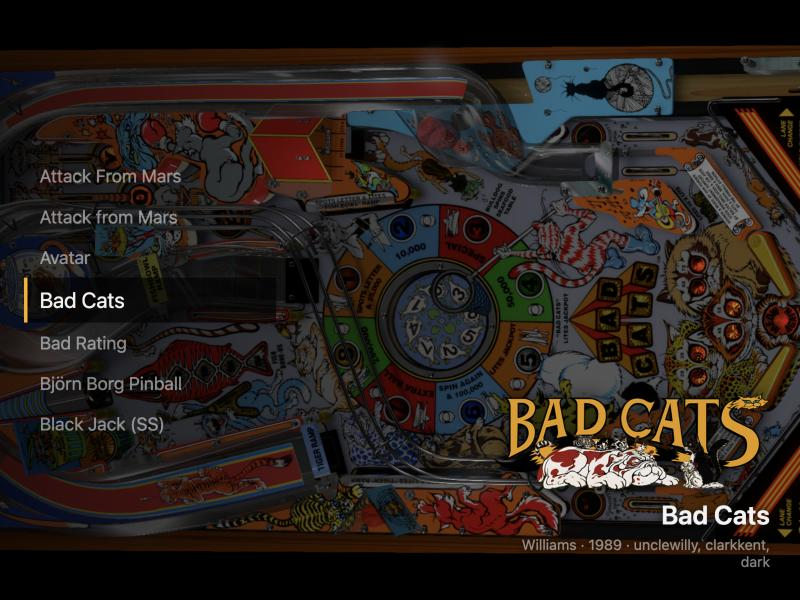
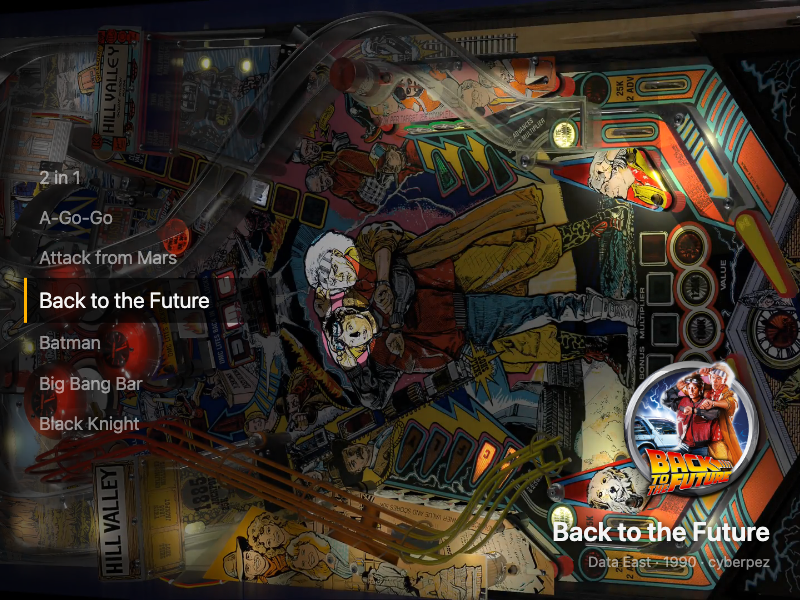
New README, 3.0 release notes and previews
- change_log rewritten as the 3.0 release notes
- README rewritten for people installing the theme, with the settings table and a short Make your own
- preview.png and preview-cabinet.png reshot from the showcase library

diff --git a/README.md b/README.md
@@ -1,127 +1,28 @@
 # Template
 
-A small starting point for a VPinFE 3.0 theme. It draws a list of tables on the left, the
-selected table's name, wheel and details on the right, and the table's playfield art behind
-both. Everything else is core's.
+A small starting point for a VPinFE 3.0 theme.  It draws a list of tables on the left, the selected table's name, wheel and details on the right, and the table's playfield art behind both.  Everything else is VPinFE's own.
 
-![Template](preview.png)
+![Template on a desktop](preview.png)
 
-Requires VPinFE 3.0 or later (`min_vpinfe` in `manifest.json`).
+On a tall cabinet screen the list sits at the bottom.
+
+![Template on a cabinet](preview-cabinet.png)
+
+The art behind the page is the table's video or image, whichever Playfield Media Priority in VPinFE's settings asks for.
+
+## Install
+
+Open Themes in the Console, find Template, and press Install.  Then press Make Active and restart VPinFE.  It needs VPinFE 3.0 or later.
+
+## Settings
+
+These are on the Themes page in the Console, under Template's settings.
+
+| Setting | What it does |
+| --- | --- |
+| Rows | How many tables the list shows at once, from 3 to 13 in steps of 2.  7 by default. |
+| Show Details | Shows the manufacturer, year and authors under the table's name.  On by default. |
 
 ## Make your own
 
-1. Copy this folder and rename it `theme-<yourname>`.
-2. Change `name`, `version`, `author` and `description` in `manifest.json`, and replace
-   `preview.png` with a screenshot of your theme.
-3. Edit `index_playfield.html`, `style.css` and `theme.js`.
-
-The theme reference is [docs/theme.md](https://github.com/vpinfe/vpinfe/blob/master/docs/theme.md)
-in VPinFE.
-
-## What is here
-
-```
-manifest.json         name, version, author, min_vpinfe and the windows the theme draws
-options.json          the options a person can change, with their defaults
-index_playfield.html  the playfield page
-style.css             the look
-theme.js              the behavior
-locales/en.json       the theme's own words; add <language>.json to translate them
-preview.png           shown in the theme list
-```
-
-## The two JSON files
-
-JSON cannot carry comments, so what each field does is here.
-
-`manifest.json`
-
-| Field | What it does |
-| --- | --- |
-| `name`, `version`, `author`, `description` | Shown in the theme list. `version` is the theme's own release number |
-| `preview_image` | The screenshot shown in the theme list |
-| `type` | `both` adapts to a desktop screen or a cabinet; `desktop` and `cab` are the other two |
-| `min_vpinfe` | The oldest VPinFE that can run the theme. `3.0` is what gets the core parts below |
-| `windows` | The pages the theme draws. Template draws `playfield` only, so core's backglass and score view pages are used |
-| `change_log` | A string, shown as "What's new" to someone installing the theme or updating it |
-
-`options.json` declares what a person can change under the theme's settings. Each entry has
-a `key`, a `name` and `description` the person reads, a `type` and a `default`. A `number`
-also takes `min`, `max` and `step`. The types are `text`, `textarea`, `number`, `boolean`,
-`select` and `json`. The theme reads the value from `vpin.themeConfig` under
-the entry's `key`. Template declares two:
-
-| Key | Type | What it does |
-| --- | --- | --- |
-| `rows` | number | How many tables the list shows at once |
-| `showDetails` | boolean | Shows the manufacturer, year and authors under the name |
-
-Every field of each type is in the theme reference, under Configuration Schema.
-
-## The four parts of theme.js
-
-`theme.js` has four parts, in this order, each commented:
-
-1. **Options** - read what `options.json` declared.
-2. **The list** - draw the rows around the selection.
-3. **The selection** - draw the selected table.
-4. **Messages** - hand every message to core, then redraw when the selection moves or the
-   list changes.
-
-A step slides the rows and a page jump cuts. That is the only motion the theme decides.
-
-## Translating
-
-A word a person reads goes through `vpin.t(key, english)`, and the theme's own words live in
-`locales/`. Template has one, the label on the list, in `locales/en.json`:
-
-```json
-{ "tables": "Tables" }
-```
-
-`vpin.t("theme.tables", "Tables")` reads it. To translate Template, add a `locales/de.json`
-beside it with the same keys. A language or a key the theme does not have falls back to
-`en.json`, then to the English written in the call. Core's own words, such as
-`frontend.theme.no_tables_found`, are translated by core and cannot be changed from here.
-
-## What core does, so this theme does not
-
-| Core handles | The theme's part |
-| --- | --- |
-| Keys, buttons and the remote: stepping, paging, the menu and the collection picker | Launch on `select` |
-| Moving the selection and wrapping around the list | Draw the rows (`activeList().indexAfter`) |
-| Choosing the table's media and its fallbacks | Mark an element with `data-vpin-media` |
-| Audio for the selected table | Nothing |
-| Preloading the neighbors | Nothing |
-| Turning the page and the art for a sideways cabinet screen | Put `vpinfe-upright` on the outermost element |
-| The loading indicator while a table starts | Restyle `.vpinfe-launch-spinner` |
-| Attract mode | Nothing |
-| The backglass and score view pages | Nothing: Template ships none, so core's are used |
-
-## Opt-outs
-
-Template uses none of these. A theme that draws one of these things itself turns core's off
-in a `config.json` next to `manifest.json`, and says why in its own README.
-
-| Core's part | Key in `config.json` | Default for a 3.0 theme |
-| --- | --- | --- |
-| Moving and paging the selection | `navigation.enabled` | on |
-| Audio | `audio.enabled` | on |
-| Turning the page and the art | `layout.enabled` | on |
-| Preloading the neighbors | `preload.enabled` | on |
-| The loading indicator | `launch_indicator.enabled` | on |
-| Attract mode | `attract.enabled` | on |
-| Dimming windows while a table launches | `launch_dim.enabled` | on |
-| Media in an element marked `data-vpin-media` | `media_window.enabled` | on |
-| The waiting-for-tables notice | `waiting.enabled` | on |
-| The hold ring | `hold_ring.enabled` | on |
-
-For example, a theme with its own launch screen:
-
-```json
-{ "launch_indicator": { "enabled": false } }
-```
-
-`vpin.enabled("core_launch_indicator")` tells the theme at run time whether core's is on.
-A backglass or score view page is an opt-out by shipping one: add `index_backglass.html` or
-`index_scoreview.html` and list the window in `manifest.json`.
+Copy this folder and rename it `theme-<yourname>`.  Change the name, version, author and description in `manifest.json`, replace `preview.png` with a picture of your theme, and edit `index_playfield.html`, `style.css` and `theme.js`.  The theme reference is [docs/theme.md](https://github.com/vpinfe/vpinfe/blob/master/docs/theme.md) in VPinFE.
